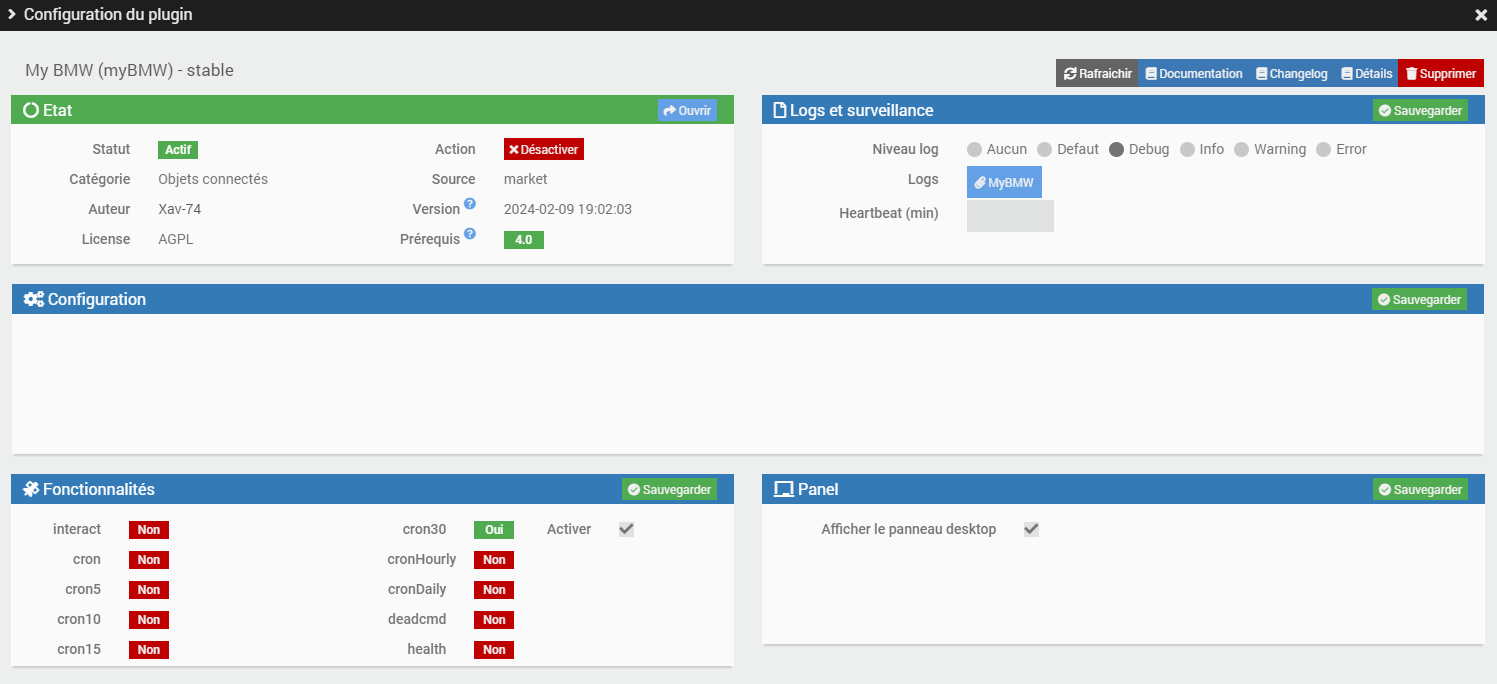
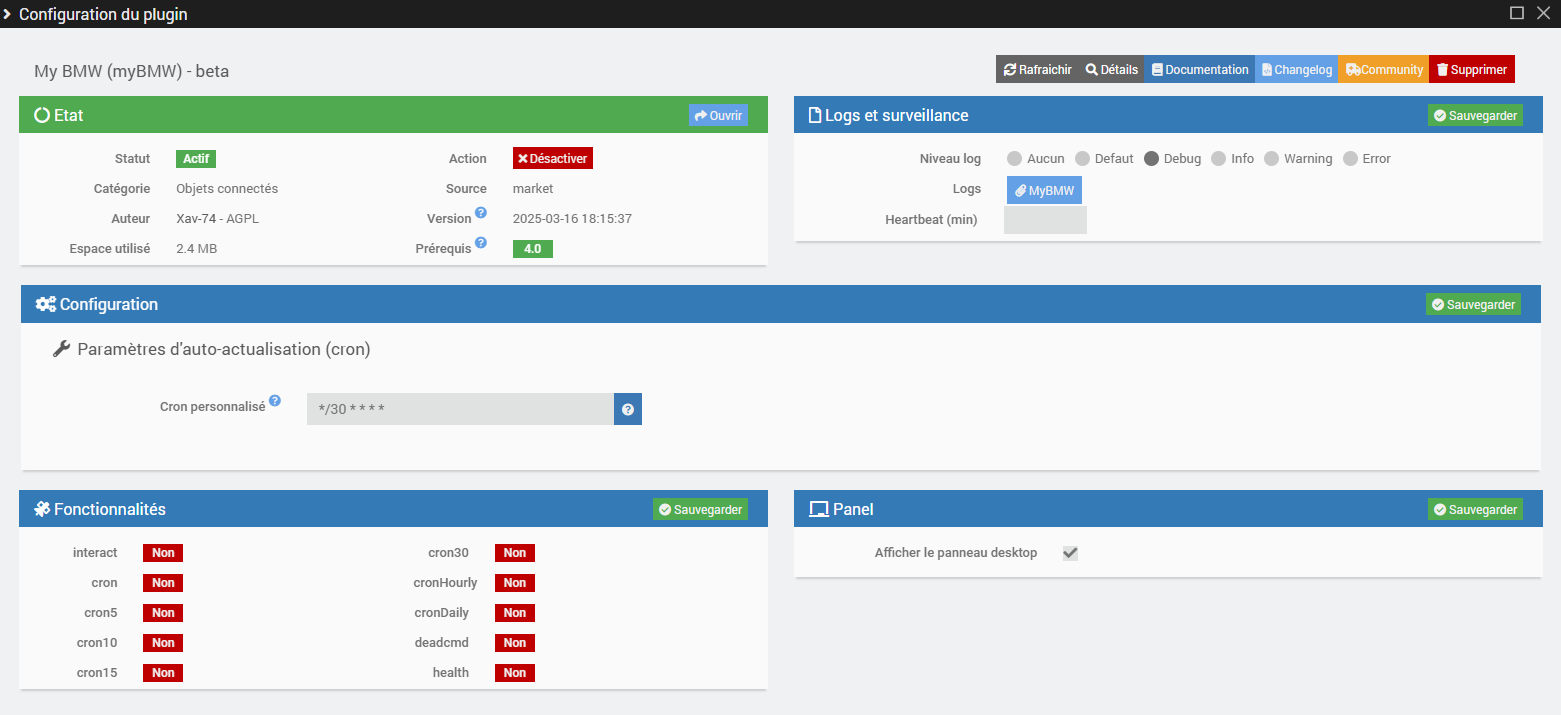
Update myBMW docs

diff --git a/myBMW/fr_FR/index.md b/myBMW/fr_FR/index.md
@@ -23,7 +23,7 @@ Il faut également détenir un abonnement en cours de validité aux services BMW
 
 # Configuration du plugin
 
-Après téléchargement du plugin, il vous suffit juste d’activer celui-ci, il n’y a aucune configuration supplémentaire à ce niveau.
+Après téléchargement du plugin, il vous suffit juste d’activer celui-ci, puis, si besoin, de configurer le cron personnalisé pour le rafraichissement des informations. Par défaut, celui-ci est sur la base de 30 min (voir chapitre 10).
 
 > **Tip**
 >
@@ -249,8 +249,8 @@ Si vous avez coché l'option **Afficher le panneau desktop** dans la page de con
 
 ## Automatique
 
-Un CRON est automatiquement créé sur base de 30 min comme indiqué dans la configuration du plugin.
-**Attention** : cette valeur de 30 min pourra être amenée à évoluer en fonction du retour et des demandes des utilisateurs ainsi que du nombre de requêtes autorisées par BMW sur leurs serveurs !
+Un CRON personnalisable est automatiquement créé (sur une base de 30 min par défaut) comme indiqué dans la configuration du plugin.
+**Attention** : vous pouvez modifier cette valeur de 30 min mais gare au nombre de requêtes autorisées par BMW sur leurs serveurs ! Je déconseille fortement de descendre en dessous de 15 min pour le moment. Votre adresse IP risque d'être bannie quelques heures ! Si vous êtes dans ce cas, désactivez cette tâche dans le moteur de tâches de Jeedom (menu Régalges / Système), patientez quelques heures puis resynchronisez et enfin réactivez la tâche. Cela devrait fonctionner.
 
 
 ## Manuel

diff --git a/myBMW/fr_FR/changelog.md b/myBMW/fr_FR/changelog.md
@@ -12,6 +12,12 @@ pluginId: myBMW
 **Remarque** : en cas de mise à jour non listée ici, c'est que celle-ci ne comporte que des changements mineurs du type documentation ou corrections de bugs mineurs.
 
 
+# 2025-05-20
+
+Ajout des fonctions suivantes :
+ - Suppression du cron30 et ajout d'un cron personnalisable depuis la page de configuration du plugin 
+
+
 # 2025-03-09
 
 Ajout des fonctions suivantes :
